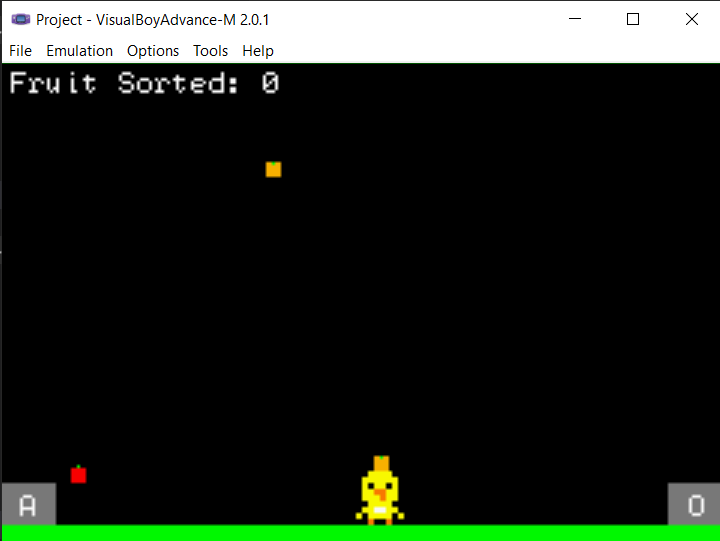
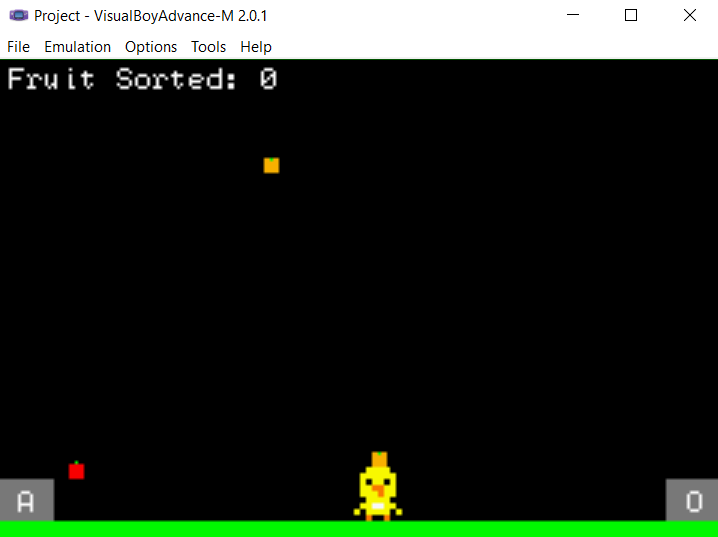
fix DuckGame image

diff --git a/projects.html b/projects.html
@@ -88,7 +88,7 @@
                         <img class= "fish" src="images/FishGame.PNG" width="713" height="535" alt="Fish Game">
                     </div>
                     <div class="GBA">
-                        <img class= "duck" src="images/duckGame.png" width="720" height="541" alt="Duck Game">
+                        <img class= "duck" src="images/duckGame2.png" width="720" height="541" alt="Duck Game">
                     </div>
                 </div>
             </h2>
